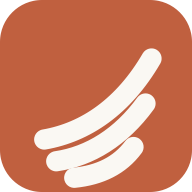
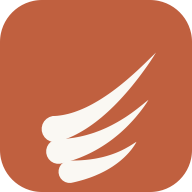
feat(brand): wing mark and two-tone wordmark replace the LW letter badge
A proper logo instead of initials in a box. The wing is three tapered
feathers on the terracotta tile, generated as filled paths and stored once
in src/lib/brand-mark.ts so the in-app logo, the Open Graph image and the
static icon can never drift apart.

- New Logo, LogoMark and Wordmark components (theme-token colours, so they
  hold up in dark mode); the wordmark sets "Wing" in the brand colour.
- Nav, sidebar and footer use the mark; the login card shows it above the
  title.
- Favicon, Apple touch icon, manifest PNGs and icon.svg regenerated from the
  new paths.

Changed region(s): [[0.1562, 0.25, 0.8438, 1.0], [0.5938, 0.4375, 0.625, 0.4688], [0.5625, 0.4688, 0.5938, 0.5]]

diff --git a/src/lib/brand-mark.ts b/src/lib/brand-mark.ts
@@ -1,0 +1,12 @@
+/**
+ * The LeadWing wing mark: three tapered feathers on a 512×512 grid.
+ * Generated once (see public/icon.svg for the static file); shared by the
+ * in-app logo component and the Open Graph image so they never drift.
+ */
+export const WING_VIEWBOX = "0 0 512 512";
+
+export const WING_PATHS: readonly string[] = [
+  "M151.6 378.6 L160.5 376.0 L169.4 373.1 L178.1 369.8 L186.9 366.2 L195.5 362.3 L204.1 358.0 L212.6 353.4 L221.1 348.5 L229.5 343.3 L237.8 337.8 L246.1 332.0 L254.4 325.9 L262.6 319.5 L270.9 312.8 L279.0 305.8 L287.2 298.5 L295.3 290.9 L303.5 283.0 L311.6 274.8 L319.7 266.3 L327.8 257.5 L335.9 248.4 L344.0 239.0 L352.1 229.3 L360.1 219.3 L368.2 209.0 L376.3 198.3 L384.3 187.4 L392.4 176.1 L400.4 164.5 L408.3 152.5 L416.0 140.0 L416.0 140.0 L416.0 140.0 L405.5 150.2 L395.3 160.2 L385.3 170.0 L375.3 179.5 L365.5 188.7 L355.8 197.5 L346.2 206.0 L336.7 214.2 L327.3 222.0 L317.9 229.6 L308.7 236.7 L299.5 243.6 L290.4 250.1 L281.4 256.2 L272.6 262.0 L263.8 267.5 L255.1 272.6 L246.6 277.4 L238.1 281.9 L229.8 286.0 L221.6 289.7 L213.5 293.1 L205.5 296.2 L197.7 299.0 L190.0 301.4 L182.5 303.5 L175.1 305.2 L167.8 306.7 L160.7 307.8 L153.8 308.7 L147.0 309.2 L140.4 309.4 L131.7 312.1 L123.9 316.9 L117.6 323.5 L113.3 331.5 L111.2 340.4 L111.4 349.6 L114.1 358.3 L118.9 366.1 L125.5 372.4 L133.5 376.7 L142.4 378.8 Z",
+  "M160.3 436.7 L169.4 434.5 L178.5 432.1 L187.4 429.4 L196.2 426.6 L204.9 423.5 L213.5 420.3 L221.9 416.8 L230.3 413.1 L238.6 409.2 L246.7 405.1 L254.7 400.8 L262.6 396.3 L270.4 391.6 L278.1 386.7 L285.7 381.6 L293.1 376.4 L300.5 370.9 L307.7 365.2 L314.8 359.4 L321.8 353.4 L328.6 347.2 L335.4 340.8 L342.0 334.2 L348.5 327.4 L355.0 320.4 L361.3 313.3 L367.4 305.9 L373.5 298.4 L379.4 290.7 L385.2 282.7 L390.8 274.6 L396.0 266.0 L396.0 266.0 L396.0 266.0 L388.2 272.2 L380.6 278.5 L373.0 284.5 L365.5 290.4 L358.0 296.1 L350.5 301.6 L343.0 306.8 L335.5 311.9 L327.9 316.7 L320.4 321.3 L312.8 325.7 L305.2 329.9 L297.7 333.9 L290.1 337.7 L282.5 341.3 L274.9 344.6 L267.3 347.8 L259.6 350.7 L252.0 353.5 L244.4 356.0 L236.7 358.3 L229.0 360.5 L221.4 362.4 L213.7 364.2 L206.0 365.7 L198.3 367.1 L190.6 368.2 L182.8 369.2 L175.1 370.0 L167.3 370.6 L159.5 371.0 L151.7 371.3 L143.4 373.5 L135.9 377.8 L129.8 383.9 L125.5 391.4 L123.3 399.7 L123.3 408.3 L125.5 416.6 L129.8 424.1 L135.9 430.2 L143.4 434.5 L151.7 436.7 Z",
+  "M189.1 487.8 L196.7 486.2 L204.2 484.4 L211.5 482.5 L218.7 480.5 L225.9 478.4 L232.8 476.1 L239.7 473.8 L246.4 471.3 L253.0 468.7 L259.4 465.9 L265.8 463.1 L272.0 460.1 L278.0 457.1 L283.9 453.9 L289.7 450.6 L295.3 447.2 L300.8 443.7 L306.1 440.0 L311.3 436.3 L316.4 432.4 L321.3 428.5 L326.0 424.4 L330.6 420.3 L335.0 416.0 L339.3 411.6 L343.4 407.2 L347.3 402.6 L351.1 398.0 L354.6 393.2 L358.0 388.3 L361.2 383.3 L364.0 378.0 L364.0 378.0 L364.0 378.0 L358.9 381.1 L354.0 384.3 L349.2 387.3 L344.3 390.3 L339.3 393.1 L334.3 395.9 L329.3 398.5 L324.3 401.0 L319.1 403.4 L314.0 405.6 L308.7 407.8 L303.4 409.8 L298.1 411.7 L292.7 413.5 L287.2 415.2 L281.7 416.8 L276.1 418.3 L270.4 419.7 L264.7 420.9 L258.9 422.1 L253.0 423.2 L247.0 424.1 L241.0 425.0 L234.8 425.7 L228.7 426.4 L222.4 426.9 L216.0 427.4 L209.6 427.7 L203.0 428.0 L196.4 428.1 L189.7 428.2 L182.9 428.2 L175.3 430.0 L168.4 433.7 L162.7 439.1 L158.6 445.8 L156.4 453.3 L156.2 461.1 L158.0 468.7 L161.7 475.6 L167.1 481.3 L173.8 485.4 L181.3 487.6 Z",
+];

diff --git a/src/components/brand/logo.tsx b/src/components/brand/logo.tsx
@@ -1,0 +1,51 @@
+import { cn } from "@/lib/utils";
+import { WING_PATHS, WING_VIEWBOX } from "@/lib/brand-mark";
+
+/**
+ * The wing mark on its rounded terracotta tile. Colours come from the theme
+ * tokens so it holds up in light and dark mode. Decorative by default: the
+ * wordmark (or adjacent text) carries the accessible name.
+ */
+export function LogoMark({ className }: { className?: string }) {
+  return (
+    <svg
+      viewBox={WING_VIEWBOX}
+      aria-hidden="true"
+      focusable="false"
+      className={cn("size-7 shrink-0", className)}
+    >
+      <rect width="512" height="512" rx="112" className="fill-primary" />
+      <g className="fill-primary-foreground">
+        {WING_PATHS.map((d, i) => (
+          <path key={i} d={d} />
+        ))}
+      </g>
+    </svg>
+  );
+}
+
+/** "LeadWing" with the second half in the brand colour. */
+export function Wordmark({ className }: { className?: string }) {
+  return (
+    <span className={cn("font-semibold tracking-tight", className)}>
+      Lead<span className="text-primary">Wing</span>
+    </span>
+  );
+}
+
+export function Logo({
+  className,
+  markClassName,
+  wordmarkClassName,
+}: {
+  className?: string;
+  markClassName?: string;
+  wordmarkClassName?: string;
+}) {
+  return (
+    <span className={cn("inline-flex items-center gap-2", className)}>
+      <LogoMark className={markClassName} />
+      <Wordmark className={wordmarkClassName} />
+    </span>
+  );
+}

diff --git a/src/app/page.tsx b/src/app/page.tsx
@@ -22,6 +22,7 @@ import { HowItWorks } from "@/components/landing/how-it-works";
 import { FeatureDeepDives } from "@/components/landing/feature-deep-dives";
 import { AppPreview } from "@/components/landing/app-preview";
 import { SITE_DESCRIPTION, SITE_NAME, SITE_TAGLINE, SITE_URL } from "@/lib/site";
+import { Logo } from "@/components/brand/logo";
 
 const BUYER_STEPS = ["New", "Contacted", "Qualified", "Viewing", "Reserved"];
 
@@ -471,10 +472,7 @@ export default function Home() {
       <footer className="border-t">
         <div className="text-muted-foreground mx-auto flex w-full max-w-6xl flex-col items-center justify-between gap-2 px-4 py-8 text-sm sm:flex-row">
           <div className="flex items-center gap-2">
-            <span className="bg-primary text-primary-foreground flex size-5 items-center justify-center rounded text-[10px] font-bold">
-              LW
-            </span>
-            <span className="text-foreground font-medium">LeadWing</span>
+            <Logo markClassName="size-5" wordmarkClassName="text-foreground font-medium" />
             <span>— real-estate CRM for the Costa del Sol</span>
           </div>
           <span>© {new Date().getFullYear()} LeadWing</span>

diff --git a/src/app/opengraph-image.tsx b/src/app/opengraph-image.tsx
@@ -2,6 +2,7 @@ import { ImageResponse } from "next/og";
 import { readFile } from "node:fs/promises";
 import { join } from "node:path";
 
+import { WING_PATHS } from "@/lib/brand-mark";
 import {
   BRAND,
   SITE_DESCRIPTION,
@@ -88,15 +89,10 @@ export default async function Image() {
           <div style={{ display: "flex", alignItems: "center", gap: 20 }}>
             <svg width="84" height="84" viewBox="0 0 512 512">
               <rect width="512" height="512" rx="112" fill={BRAND.primary} />
-              <g
-                fill="none"
-                stroke={BRAND.background}
-                strokeWidth="54"
-                strokeLinecap="round"
-              >
-                <path d="M118 372 C 210 356, 320 300, 404 156" />
-                <path d="M150 430 C 232 418, 318 372, 388 276" />
-                <path d="M198 474 C 258 468, 316 446, 356 392" />
+              <g fill={BRAND.background}>
+                {WING_PATHS.map((d, i) => (
+                  <path key={i} d={d} />
+                ))}
               </g>
             </svg>
             <div

diff --git a/src/components/marketing-nav.tsx b/src/components/marketing-nav.tsx
@@ -2,6 +2,7 @@ import Link from "next/link";
 import { ArrowLeft } from "lucide-react";
 
 import { Button } from "@/components/ui/button";
+import { Logo } from "@/components/brand/logo";
 
 export function MarketingNav({
   variant = "landing",
@@ -12,10 +13,7 @@ export function MarketingNav({
     <header className="sticky top-0 z-20 border-b border-border/60 bg-background/70 backdrop-blur">
       <div className="mx-auto flex h-14 w-full max-w-6xl items-center justify-between px-4">
         <Link href="/" className="flex items-center gap-2">
-          <span className="bg-primary text-primary-foreground flex size-7 items-center justify-center rounded-md text-sm font-bold">
-            LW
-          </span>
-          <span className="font-semibold tracking-tight">LeadWing</span>
+          <Logo />
         </Link>
         <div className="flex items-center gap-2">
           {variant === "landing" ? (

diff --git a/src/components/app-sidebar.tsx b/src/components/app-sidebar.tsx
@@ -14,6 +14,7 @@ import {
 
 import { signOut } from "@/lib/actions/auth";
 import { clientsPath, type ClientSide } from "@/lib/crm";
+import { LogoMark, Wordmark } from "@/components/brand/logo";
 import {
   Sidebar,
   SidebarContent,
@@ -60,12 +61,8 @@ export function AppSidebar({ email }: { email: string }) {
           onClick={closeMobile}
           className="flex items-center gap-2 px-1 py-1.5"
         >
-          <span className="bg-primary text-primary-foreground flex size-7 shrink-0 items-center justify-center rounded-md text-sm font-bold">
-            LW
-          </span>
-          <span className="font-semibold tracking-tight group-data-[collapsible=icon]:hidden">
-            LeadWing
-          </span>
+          <LogoMark />
+          <Wordmark className="group-data-[collapsible=icon]:hidden" />
         </Link>
       </SidebarHeader>
 

diff --git a/src/app/login/page.tsx b/src/app/login/page.tsx
@@ -16,6 +16,7 @@ import {
   InputOTPGroup,
   InputOTPSlot,
 } from "@/components/ui/input-otp";
+import { LogoMark } from "@/components/brand/logo";
 import {
   Card,
   CardContent,
@@ -139,6 +140,7 @@ export default function LoginPage() {
         <AuthErrorListener />
       <Card className="w-full max-w-sm">
         <CardHeader className="text-center">
+          <LogoMark className="mx-auto mb-3 size-10" />
           <p className="text-primary text-sm font-semibold tracking-wide uppercase">
             LeadWing
           </p>
